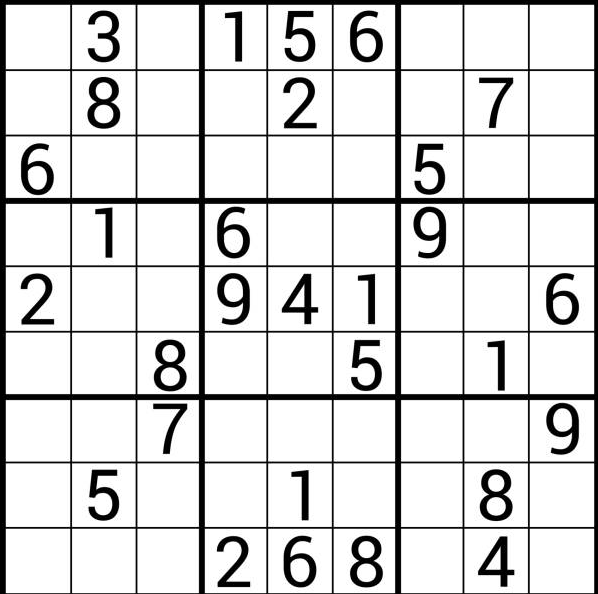
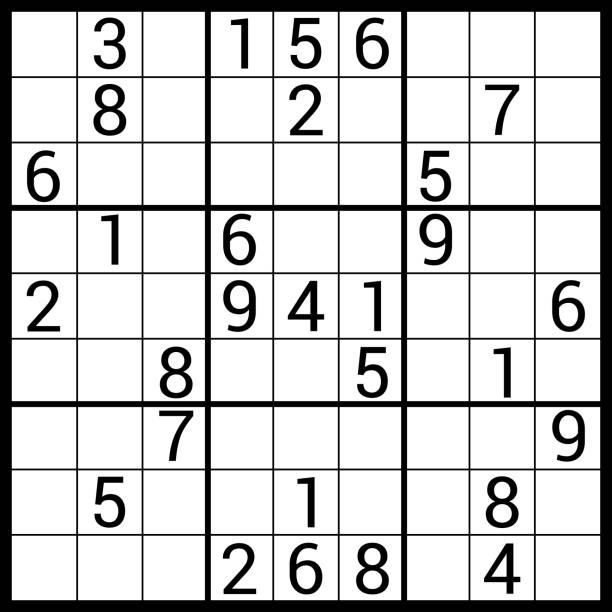
Deployment Issue Resolved

Changed region(s): [[0.0, 0.0, 1.0, 1.0]]

diff --git a/Frontend/src/SudokuTable/Table.js b/Frontend/src/SudokuTable/Table.js
@@ -1,5 +1,6 @@
 import React from 'react';
 import './table.css';
+import API_BASE from '../config';
 
 const Table = ({ matrix, setMatrix, predictedMatrix, isDarkMode }) => {
   const handleInput = (row, col, e) => {
@@ -20,7 +21,7 @@ const Table = ({ matrix, setMatrix, predictedMatrix, isDarkMode }) => {
   
   const solve = async () => {
     try {
-      const response = await fetch('http://127.0.0.1:5000/solve', {
+      const response = await fetch(`${API_BASE}/solve`, {
         method: 'POST',
         headers: {
           'Content-Type': 'application/json',
@@ -29,12 +30,19 @@ const Table = ({ matrix, setMatrix, predictedMatrix, isDarkMode }) => {
       });
       
       if (!response.ok) {
+        const errorData = await response.json();
+        if (errorData && errorData.Error === 'Invalid Sudoku') {
+            alert('Invalid Sudoku! Please enter a correct one.');
+            return;
+        }
         throw new Error('Failed to solve the puzzle');
       }
 
       const solvedMatrix = await response.json();
       if (solvedMatrix && solvedMatrix.ans) {
         setMatrix(solvedMatrix.ans);
+      } else if (solvedMatrix && solvedMatrix.Error) {
+        alert('Invalid Sudoku! Please check the sudoku and try again.');
       } else {
         console.error('Invalid Input');
       }

diff --git a/Frontend/src/Img_upload/Img_upload.js b/Frontend/src/Img_upload/Img_upload.js
@@ -4,11 +4,12 @@ import Cropper from "react-cropper";
 import "cropperjs/dist/cropper.css";
 import "./Img_upload.css";
 
-const defaultSrc =
-  "https://upload.wikimedia.org/wikipedia/commons/thumb/e/e0/Sudoku_Puzzle_by_L2G-20050714_standardized_layout.svg/1200px-Sudoku_Puzzle_by_L2G-20050714_standardized_layout.svg.png";
+
+// set the sudoku.jpg image present in the curent directory as defaultSrc
+const defaultImage = require('./sudoku.jpg');
 
   const Img_upload = ({ onCrop, isDarkMode}) => {
-    const [image, setImage] = useState(defaultSrc);
+    const [image, setImage] = useState(defaultImage);
     const [cropper, setCropper] = useState(null);
   
     const onChange = (e) => {
@@ -33,7 +34,7 @@ const defaultSrc =
     return (
       <div className={`cont ${isDarkMode ? 'dark_comp' : 'light_comp'}`}>
         <div style={{ width: "100%", maxWidth: "100%" }}>
-          <button style={{ marginBottom: '8px' }} onClick={() => setImage(defaultSrc)}>Use default image</button>
+          <button style={{ marginBottom: '8px' }} onClick={() => setImage(defaultImage)}>Use default image</button>
           <Cropper
             zoomTo={0.2}
             initialAspectRatio={1}

diff --git a/Frontend/src/Image_show/Image_show.js b/Frontend/src/Image_show/Image_show.js
@@ -3,6 +3,7 @@ import { HiOutlineUpload } from "react-icons/hi";
 import "./Image_show.css";
 import Modal from "./Modal";
 import axios from 'axios';
+import API_BASE from '../config';
 
 const Image_show = ({ matrix, setMatrix, setPredictedMatrix, isDarkMode }) => {
   const [isModalOpen, setIsModalOpen] = useState(false);
@@ -36,7 +37,7 @@ const Image_show = ({ matrix, setMatrix, setPredictedMatrix, isDarkMode }) => {
       const formData = new FormData();
       formData.append('img', imageFile);
 
-      const response = await axios.post('http://127.0.0.1:5000/predict', formData, {
+      const response = await axios.post(`${API_BASE}/predict`, formData, {
         headers: {
           'Content-Type': 'multipart/form-data',
         },

diff --git a/Frontend/src/config.js b/Frontend/src/config.js
@@ -1,0 +1,2 @@
+const API_BASE = process.env.REACT_APP_API_URL || 'http://127.0.0.1:5000';
+export default API_BASE;

diff --git a/Backend/server.py b/Backend/server.py
@@ -59,4 +59,5 @@ def solve():
     
     
 if __name__ == '__main__':
-    app.run(debug=True)
+    port = int(os.environ.get('PORT', 5000))
+    app.run(host='0.0.0.0', port=port, debug=False)
